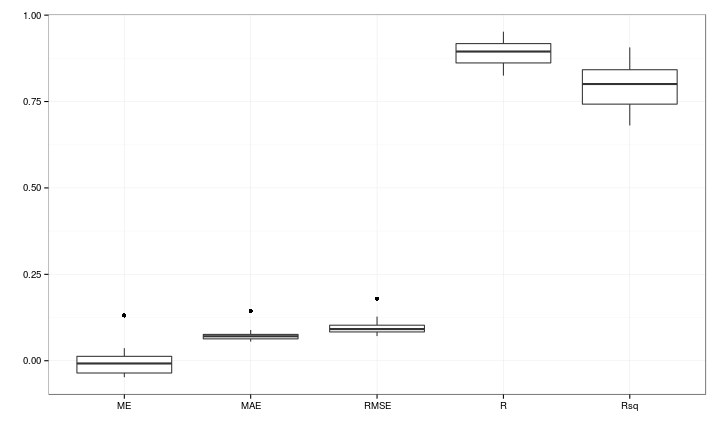
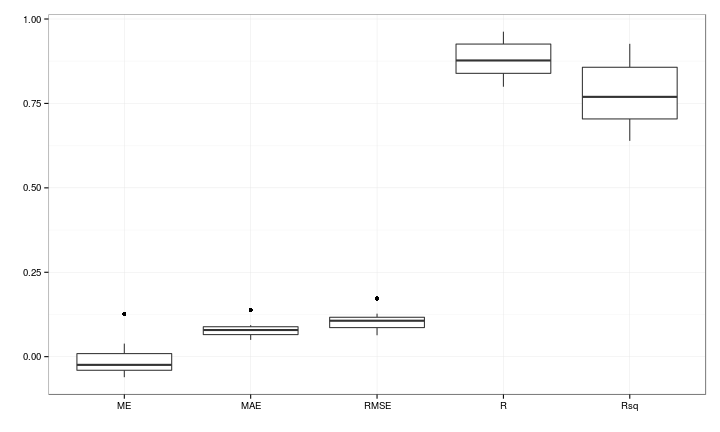
again updated examples for readme page

diff --git a/README.md b/README.md
@@ -23,7 +23,7 @@ Oxford University Press, Oxford, New York (2007)
 
 #### Example I: recreate figure 6 from van den Dool et al. (2000)
 
-```S
+```r
 library(Reot)
 library(rworldmap)
 library(rgdal)
@@ -58,7 +58,7 @@ modes <- eot(pred = vdendool, resp = NULL, n = 4,
 ## max rsq value: 16459
 ```
 
-```S
+```r
 
 ster <- CRS("+proj=stere +lat_0=90 +lon_0=-45")
 
@@ -115,7 +115,7 @@ grid.arrange(p1, p2, p3, p4,
 #### Example II: downscale 8 km GIMMS NDVI to 250 m MODIS NDVI
 
 
-```S
+```r
 library(reshape)
 library(ggplot2)
 
@@ -125,7 +125,7 @@ data(gimmsKiliNDVI)
 # create training and validation sets
 set.seed(123)
 layer <- sample(c(0,1,2,3), nlayers(modisKiliNDVI), replace = TRUE)
-month <- sample(12, 12, replace = FALSE)
+month <- sort(sample(12, 12, replace = FALSE))
 
 pred.ind1 <- (layer * 12 + month)[1:12]
 
@@ -143,15 +143,15 @@ mode <- eot(pred = gimms.stck.pred,
 ## Calculating linear model ... 
 ## Locating 1. EOT ...
 ## location: 37.71 -3.25 
-## max rsq value: 24443 
+## max rsq value: 23041 
 ## 
 ## Calculating linear model ... 
 ## Locating 2. EOT ...
-## location: 37.28 -3.323 
-## max rsq value: 10305
+## location: 37.42 -3.395 
+## max rsq value: 9540
 ```
 
-```S
+```r
 
 ### evaluate prediction
 ts.mode.eval <- gimms.stck.eval[mode[[1]][[1]]$max.xy]
@@ -175,7 +175,13 @@ Rsq <- R * R
 # visualise error scores
 scores <- data.frame(ME, MAE, RMSE, R, Rsq)
 melt.scores <- melt(scores)
+```
 
+
+Box-Whisker plot of error scores:
+
+
+```r
 # boxplots
 #png("scores_boxplots.png", width = 10, height = 10, units = "cm", res = 300)
 p <- ggplot(melt.scores, aes(factor(variable), value)) 
@@ -185,13 +191,17 @@ p + geom_boxplot() +
 
 ![plot of chunk downscale_GIMMS_I](figure/downscale_GIMMS_I.png) 
 
-```S
+```r
 #dev.off()
 ```
 
 
+====
 
-```S
+Scatterplot of predicted ~ observed for each scene:
+
+
+```r
 # scatter plots
 # lattice-way
 lattice.plots <- lapply(seq(ncol(pred.vals)), function(i) {
@@ -244,7 +254,84 @@ print(out)
 
 ![plot of chunk downscale_GIMMS_II](figure/downscale_GIMMS_II.png) 
 
-```S
+```r
+#dev.off()
+```
+
+
+====
+
+Plot 5000 worst predicted pixels onto NDVI map (brown = underprediction, purple = overprediction):
+
+
+```r
+### plot pixels of worst fit spatially
+plotResid <- function(sp.obj, 
+                      pred.vals, 
+                      resp.vals, 
+                      txt = "hallo",
+                      #what = c("lower", "upper"),  
+                      n = 1000) {
+  
+  lm1 <- lm(pred.vals ~ resp.vals)
+
+  resids <- sort(lm1$residuals)
+  lowest <- resids[1:n]
+  highest <- resids[(length(resids) - (n - 1)):length(resids)]
+  
+  lowest.loc <- xyFromCell(mod.predicted, as.integer(names(lowest)))
+  highest.loc <- xyFromCell(mod.predicted, as.integer(names(highest)))
+  
+  clrs.ndvi <- colorRampPalette(brewer.pal(9, "YlGn"))
+  clrs.resids <- brewer.pal(9, "PuOr")
+  
+  lev <- spplot(sp.obj, col.regions = clrs.ndvi(1200), 
+                at = seq(-1000, 10000, 10), as.table = TRUE,
+                colorkey = list(space = "top", width = 1, height = 0.75),
+                main = "NDVI * 10000")
+  pts.low <- xyplot(lowest.loc[, 2] ~ lowest.loc[, 1], 
+                    pch = ".", col = clrs.resids[1])
+  pts.high <- xyplot(highest.loc[, 2] ~ highest.loc[, 1], 
+                     pch = ".", col = clrs.resids[9],
+                     panel = function(...) {
+                       panel.xyplot(...)
+                       panel.text(labels = txt, 
+                                  x = 37.65, y = -2.86, cex = 0.7)})
+  #ptext <- layer(panel.text(labels = txt, x = 38, y = -2.85, cex = 0.7))
+  
+  out <- lev + as.layer(pts.low) + as.layer(pts.high) #+ ptext
+    
+  
+  return(out)
+  
+}
+
+resid.plot <- lapply(seq(ncol(pred.vals)), function(i) {
+  
+  panel.name <- strsplit(names(mod.stck.eval)[i], "_")[[1]][4]
+  
+  plotResid(sp.obj = mod.predicted[[i]],
+            pred.vals = pred.vals[, i],
+            resp.vals = obs.vals[, i],
+            txt = panel.name,
+            n = 2500) 
+})
+
+outLayout <- function(x, y) {
+  update(c(x, y, 
+           layout = c(3, length(resid.plot)/3)), 
+         between = list(y = 0.3, x = 0.3))
+}
+
+out.res <- Reduce(outLayout, resid.plot)
+
+#png("resids.png", width = 19, height = 27, units = "cm", res = 300)
+print(out.res) 
+```
+
+![plot of chunk downscale_GIMMS_III](figure/downscale_GIMMS_III.png) 
+
+```r
 #dev.off()
 ```
 
